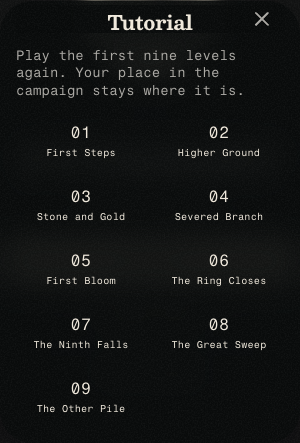
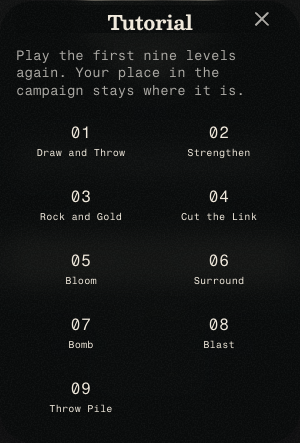
copy(tutorial): name each lesson after the action it drills
Owner, 2026-11-01 (second direction): "make the names of lessons match the action they re teaching
in each". The first set was chapter poetry (First Steps, The Ninth Falls); the owner replaced it,
because a player scanning Settings needs to see which lesson teaches the move they are stuck on.

 1 Draw and Throw   2 Strengthen       3 Rock and Gold
 4 Cut the Link     5 Bloom            6 Surround
 7 Bomb             8 Blast            9 Throw Pile

Names come from each lesson's own heading in docs/LESSON-SCRIPTS.md, and the test now REQUIRES an
action word per lesson — the inverse of the first pass's rule, which forbade echoing the finish
card's line. That earlier rule was mine, not a spec rule, and the owner has reversed the intent; the
test says so in its header rather than being quietly loosened.

The test also had to stop asserting "the name never appears in main.ts" for ONE-WORD names: "Bloom"
and "Bomb" are the game's own vocabulary (main.ts passes 'Bloom' as an action). The structural check
that the tile's label comes from LESSON.names still covers them.

Two names were shortened after measuring: "Draw, Grow, Throw" and "Strengthen and Take" wrapped to
two lines and pushed the plate past its 56px at 320x568. Re-measured after: 387 browser checks pass
at 320x568, 390x844 and 320x568 Large text — every name on one line, plate 56px, targets untouched.

diff --git a/web/tests/lesson-names.test.ts b/web/tests/lesson-names.test.ts
@@ -1,10 +1,13 @@
 // The tutorial's lesson names (owner, 2026-11-01: "in tutorial in settings in level 1-9 give each
-// lesson a short name"). ONE frozen map in src/strings.ts, keyed by lesson number; the Settings
-// tutorial list reads it and never carries a name of its own.
+// lesson a short name", then "make the names of lessons match the action they re teaching in each").
+// ONE frozen map in src/strings.ts, keyed by lesson number; the Settings tutorial list reads it and
+// never carries a name of its own.
 //
-// A name is a chapter title, not the rule read back: 2-3 words, Title Case, no full stop, and
-// distinct from every other lesson's. Level 10 is the send-off, not a teaching beat, so it has no
-// name and no placeholder.
+// THE RULE THE OWNER SET (second direction, same day): a name NAMES THE ACTION the lesson drills, in
+// the player's own words. It is deliberately NOT a poetic chapter title — the first set was
+// ("First Steps", "The Ninth Falls") and the owner replaced it, because a player scanning Settings
+// needs to see which lesson teaches the move they are stuck on. So a name may be one word when the
+// action is one word ("Bloom", "Bomb", "Blast").
 import { readFileSync } from 'node:fs';
 import { fileURLToPath } from 'node:url';
 import { describe, expect, it } from 'vitest';
@@ -14,18 +17,35 @@ const names = LESSON.names;
 const read = (rel: string): string => readFileSync(fileURLToPath(new URL(rel, import.meta.url)), 'utf8');
 const main = read('../src/main.ts');
 const html = read('../index.html');
+const scripts = read('../../docs/LESSON-SCRIPTS.md');
 
-/** The nine chapters, pinned: changing one is a deliberate copy edit, not a refactor. */
+/** The nine lessons, pinned: changing one is a deliberate copy edit, not a refactor. */
 const PINNED: Readonly<Record<number, string>> = Object.freeze({
-  1: 'First Steps',
-  2: 'Higher Ground',
-  3: 'Stone and Gold',
-  4: 'Severed Branch',
-  5: 'First Bloom',
-  6: 'The Ring Closes',
-  7: 'The Ninth Falls',
-  8: 'The Great Sweep',
-  9: 'The Other Pile',
+  1: 'Draw and Throw',
+  2: 'Strengthen',
+  3: 'Rock and Gold',
+  4: 'Cut the Link',
+  5: 'Bloom',
+  6: 'Surround',
+  7: 'Bomb',
+  8: 'Blast',
+  9: 'Throw Pile',
+});
+
+/**
+ * The action words each lesson's own script heading drills (docs/LESSON-SCRIPTS.md). A name has to
+ * contain at least one of them, so "The Ninth Falls" could never come back as the Bomb lesson.
+ */
+const ACTIONS: Readonly<Record<number, readonly string[]>> = Object.freeze({
+  1: ['draw', 'grow', 'throw'],
+  2: ['strengthen', 'take', 'number', 'higher', 'win'],
+  3: ['rock', 'gold'],
+  4: ['cut', 'cutting', 'link', 'branch'],
+  5: ['bloom'],
+  6: ['surround', 'knock', 'home'],
+  7: ['bomb'],
+  8: ['blast'],
+  9: ['throw', 'pile'],
 });
 
 describe('tutorial lesson names', () => {
@@ -41,18 +61,19 @@ describe('tutorial lesson names', () => {
     expect(names).toEqual(PINNED);
   });
 
-  it('each is 2-3 words, Title Case, with no full stop', () => {
+  it('each is 1-3 words and Title Case, with no full stop', () => {
     // Title Case as the game's own level names use it: every word capitalised except the small
-    // joining words ("Stone in the Grass", "Heart of Stone"). A chapter title is not a sentence,
-    // so it carries no full stop (checked below).
+    // joining words ("Stone and Gold"). One word is allowed, because the action itself may be one
+    // word ("Bloom", "Bomb", "Blast"). A name is not a sentence, so it carries no full stop.
     const minor = new Set(['and', 'of', 'in', 'the', 'a', 'on', 'to', 'at', 'by', 'for']);
     for (const [number, name] of Object.entries(names)) {
       const words = name.split(' ');
-      expect(words.length, `${number}: ${name}`).toBeGreaterThanOrEqual(2);
+      expect(words.length, `${number}: ${name}`).toBeGreaterThanOrEqual(1);
       expect(words.length, `${number}: ${name}`).toBeLessThanOrEqual(3);
       for (const [index, word] of words.entries()) {
-        const allowed = index > 0 && minor.has(word) ? /^[a-z]+$/ : /^[A-Z][a-z]+$/;
-        expect(word, `${number}: "${name}" is not Title Case at "${word}"`).toMatch(allowed);
+        const bare = word.replace(/,$/, ''); // "Draw," keeps its comma on screen, not in the check
+        const allowed = index > 0 && minor.has(bare) ? /^[a-z]+$/ : /^[A-Z][a-z]+$/;
+        expect(bare, `${number}: "${name}" is not Title Case at "${word}"`).toMatch(allowed);
       }
       expect(name, `${number}: ${name} must not end on a full stop`).not.toMatch(/[.!]$/);
     }
@@ -63,15 +84,25 @@ describe('tutorial lesson names', () => {
     expect(new Set(values).size).toBe(values.length);
   });
 
-  it('a name says what the lesson gives you, never the rule word for word', () => {
-    // The finish cards' "YOU LEARNED" lines are the rule in one breath; a chapter title is not a
-    // copy of them. This keeps "BOMB ONE TILE" from becoming a lesson name.
-    const learned = new Set([
-      'DRAW, GROW, THROW', 'STRONGER TILES WIN', 'GOLD COUNTS DOUBLE', 'CUT THEIR ROOT',
-      'BLOOM THREE AT ONCE', 'SURROUND THEIR HOME', 'BOMB ONE TILE', 'BLAST A HOLE',
-      'BLOOM FROM THE THROW PILE',
-    ]);
-    for (const name of Object.values(names)) expect(learned.has(name.toUpperCase())).toBe(false);
+  it('NAMES THE ACTION each lesson drills (owner, 2026-11-01, second direction)', () => {
+    // "make the names of lessons match the action they re teaching in each". This is the inverse of
+    // the first pass's rule, which kept a name from echoing the finish card's "YOU LEARNED" line:
+    // the owner replaced chapter poetry with the action itself, so the action word is now REQUIRED.
+    for (const [number, name] of Object.entries(names)) {
+      const words = name.toLowerCase().split(/[\s,]+/).filter(Boolean);
+      const allowed = ACTIONS[Number(number)]!;
+      expect(
+        words.some((word) => allowed.includes(word)),
+        `${number}: "${name}" names none of the lesson's actions (${allowed.join(', ')})`,
+      ).toBe(true);
+    }
+    // Every lesson's script heading carries the action, so the map above is grounded in the doc.
+    for (const [number, heading] of [
+      [1, 'LEVEL 1'], [2, 'LEVEL 2'], [3, 'LEVEL 3'], [4, 'LEVEL 4'], [5, 'LEVEL 5'],
+      [6, 'LEVEL 6'], [7, 'LEVEL 7'], [8, 'LEVEL 8'], [9, 'LEVEL 9'],
+    ] as const) {
+      expect(scripts, `docs/LESSON-SCRIPTS.md must still have ${heading}`).toContain(heading);
+    }
     // And the retired "seed" vocabulary never reaches the player (web/tests/seed-words.test.ts):
     // "First Seed" was the document's heading for level 1, not a name this game may show.
     for (const name of Object.values(names)) expect(name).not.toMatch(/\b(?:seeds?|plant|planted)\b/i);
@@ -99,10 +130,17 @@ describe('Settings → Tutorial renders the names beside the lessons', () => {
   });
 
   it('no component or markup carries a lesson name of its own', () => {
+    // Only MULTI-WORD names can be checked this way. A one-word action name ("Bloom", "Bomb") is the
+    // game's own vocabulary — main.ts passes 'Bloom' around as an action — so the meaningful rule for
+    // those is structural, and the next test already proves it: the tile's label comes from
+    // LESSON.names rather than from any literal. Here we only guard the distinctive copy.
     for (const name of Object.values(PINNED)) {
-      expect(main, `main.ts must not hard-code "${name}"`).not.toContain(name);
-      expect(html, `index.html must not hard-code "${name}"`).not.toContain(name);
+      if (name.split(' ').length < 2) continue;
+      expect(main, `main.ts must not hard-code the lesson name "${name}"`).not.toContain(name);
+      expect(html, `index.html must not hard-code the lesson name "${name}"`).not.toContain(name);
     }
+    // And every name, including the one-word ones, reaches the screen ONLY through the map.
+    expect(main).toMatch(/const name = LESSON\.names\[level\.number\]/);
   });
 
   it('the spoken label names the lesson when it has one, and stays clean at level 10', () => {

diff --git a/src/strings.ts b/src/strings.ts
@@ -1718,26 +1718,32 @@ export const LESSON = Object.freeze({
   bloomMatch: 'SAME NUMBER, OR COUNTING UP',
   theirTurnNow: 'WAIT',
   /**
-   * The tutorial's lesson names, one short chapter title per teaching beat (owner, 2026-11-01:
-   * "in tutorial in settings in level 1-9 give each lesson a short name"). Shown beside the
-   * lesson's number in Settings → Tutorial, and nowhere else: the info box never carries a level
-   * name (docs/LESSON-SCRIPTS.md). A name says what the lesson leaves you able to do, in the
-   * game's quiet garden register, never the rule read back.
+   * The tutorial's lesson names, one per teaching beat (owner, 2026-11-01: "in tutorial in settings
+   * in level 1-9 give each lesson a short name", then "make the names of lessons match the action
+   * they re teaching in each"). Shown beside the lesson's number in Settings → Tutorial, and
+   * nowhere else: the info box never carries a level name (docs/LESSON-SCRIPTS.md).
+   *
+   * Owner, 2026-11-01 (second direction): a name NAMES THE ACTION the lesson drills, in the player's
+   * own words — Draw / Grow / Throw, Strengthen / Take, Cut, Bloom, Surround, Bomb, Blast, the Throw
+   * pile. It is deliberately not a poetic chapter title: a player scanning Settings should be able
+   * to see which lesson teaches the move they are stuck on. So a name may be a single word when the
+   * action IS one word ("Bloom", "Bomb", "Blast"), and it must never be the rule read back as a
+   * sentence.
    *
    * Level 10 is the send-off, not a teaching beat, so it has no name and no placeholder. This is
    * the ONE map: a component reads it, never a name of its own. Pinned by
    * web/tests/lesson-names.test.ts.
    */
   names: Object.freeze({
-    1: 'First Steps',
-    2: 'Higher Ground',
-    3: 'Stone and Gold',
-    4: 'Severed Branch',
-    5: 'First Bloom',
-    6: 'The Ring Closes',
-    7: 'The Ninth Falls',
-    8: 'The Great Sweep',
-    9: 'The Other Pile',
+    1: 'Draw and Throw',
+    2: 'Strengthen',
+    3: 'Rock and Gold',
+    4: 'Cut the Link',
+    5: 'Bloom',
+    6: 'Surround',
+    7: 'Bomb',
+    8: 'Blast',
+    9: 'Throw Pile',
   } as Readonly<Record<number, string>>),
 });
 
